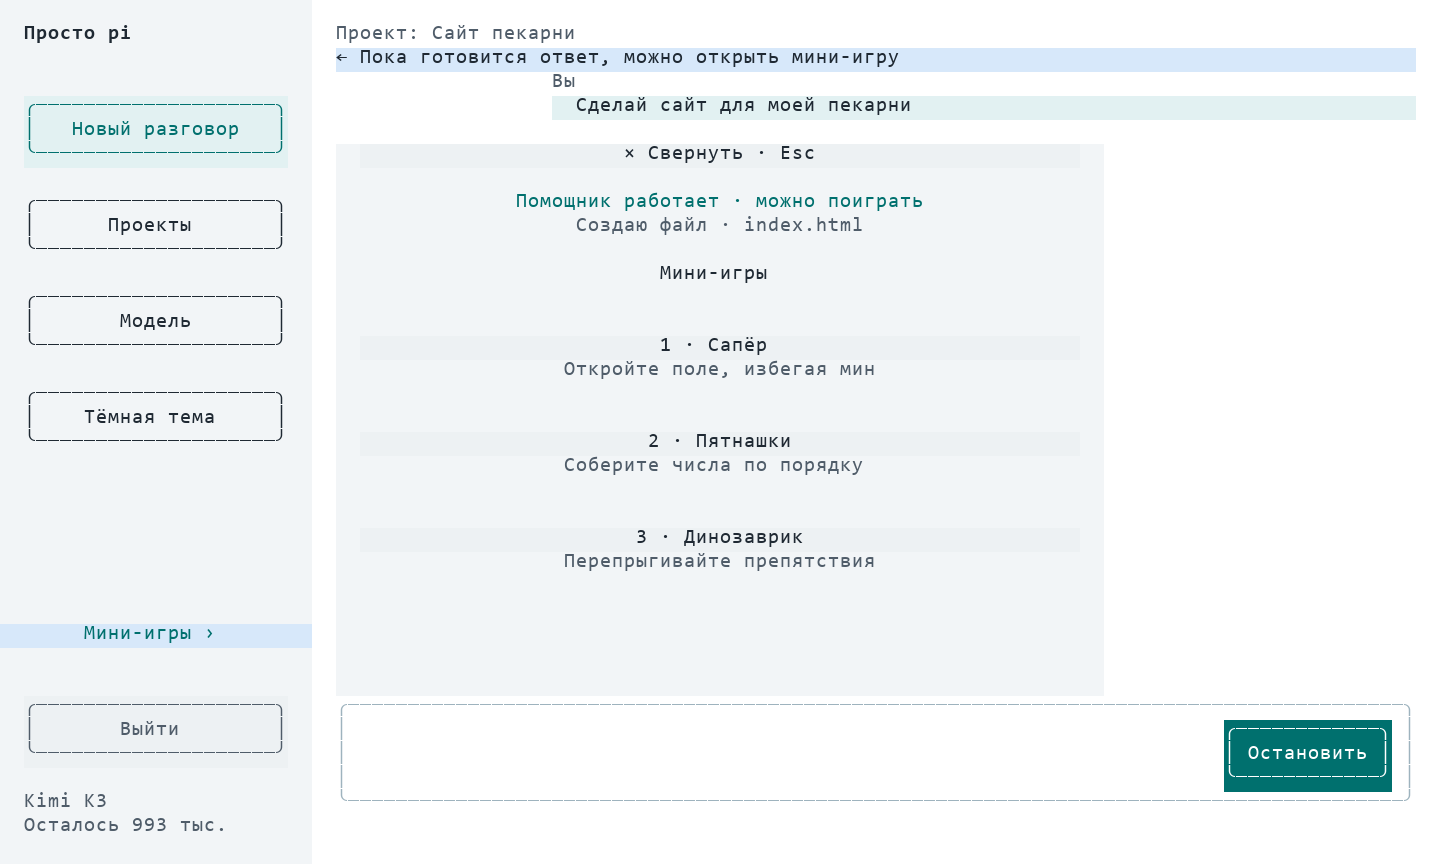
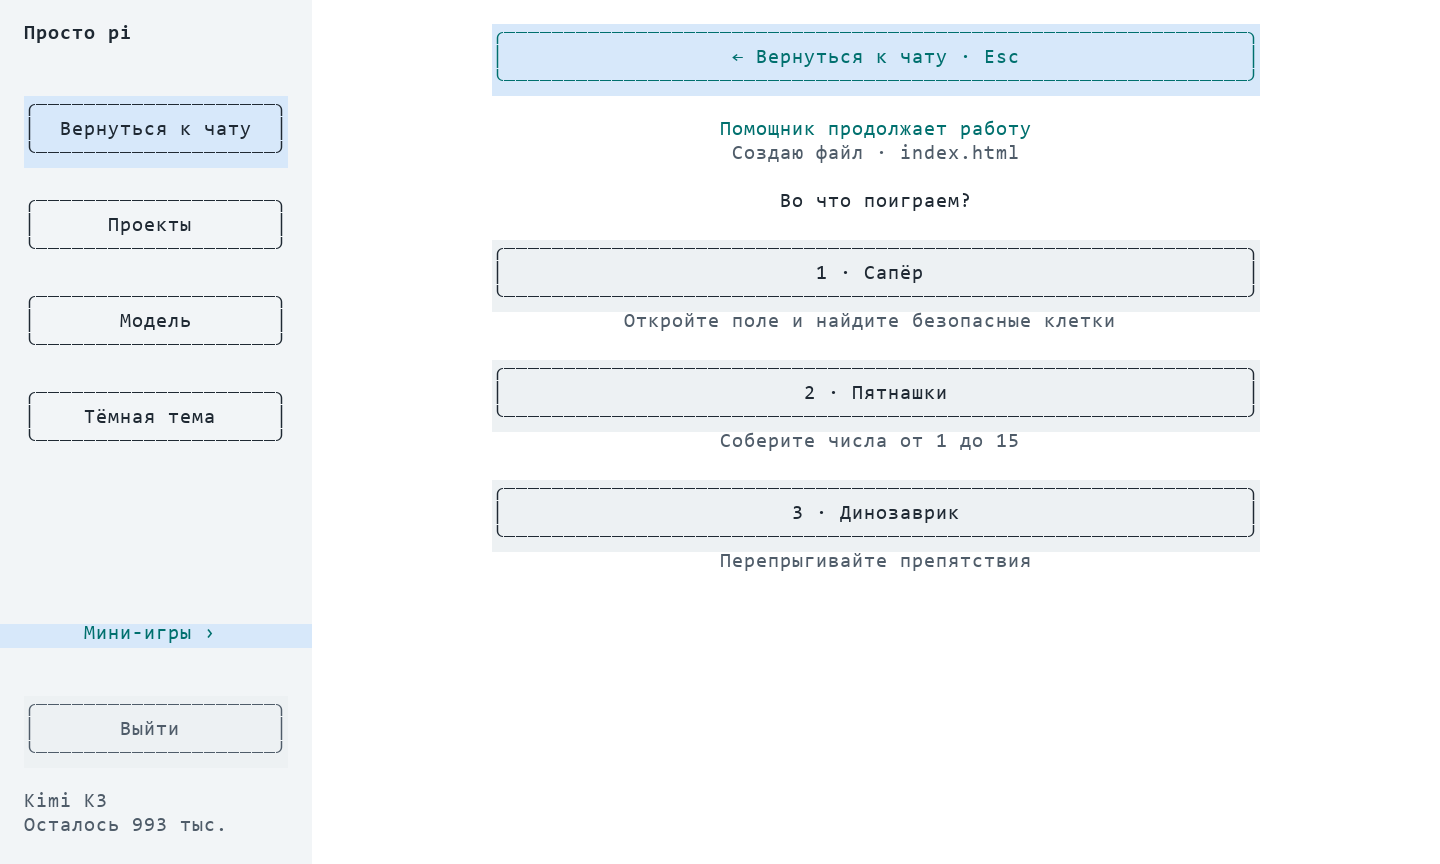
Expand games into themed chat pane with large controls

diff --git a/README.md b/README.md
@@ -130,4 +130,4 @@ MIT.
 
 ### Мини-игры во время генерации
 
-Кнопка «Мини-игры» слева появляется, пока помощник работает. Подсказка подсвечивает её на шесть секунд. Сапёр (8×8, 10 мин), пятнашки и динозаврик открываются в компактном центральном окне со статусом работы. Esc или «Свернуть» возвращает в чат, прогресс игры сохраняется до смены сессии. Ответ помощника не прерывается. Когда ответ готов, динозаврик автоматически встаёт на паузу. Сапёр: клик/Enter открывает клетку, правый клик/F ставит флаг; пятнашки: клик по соседней плитке; динозаврик: Пробел, Enter или кнопка прыжка. N начинает заново.
+Кнопка «Мини-игры» слева появляется, пока помощник работает. Подсказка подсвечивает её на шесть секунд. Сапёр (8×8, 10 мин), пятнашки и динозаврик открываются во всей области чата со статусом работы, крупными клетками и кнопками. Esc или «Вернуться к чату» возвращает в чат, прогресс игры сохраняется до смены сессии. Ответ помощника не прерывается. Когда ответ готов, динозаврик автоматически встаёт на паузу. Сапёр: клик/Enter открывает клетку, правый клик/F ставит флаг; пятнашки: клик по соседней плитке; динозаврик: Пробел, Enter или кнопка прыжка. N начинает заново.
